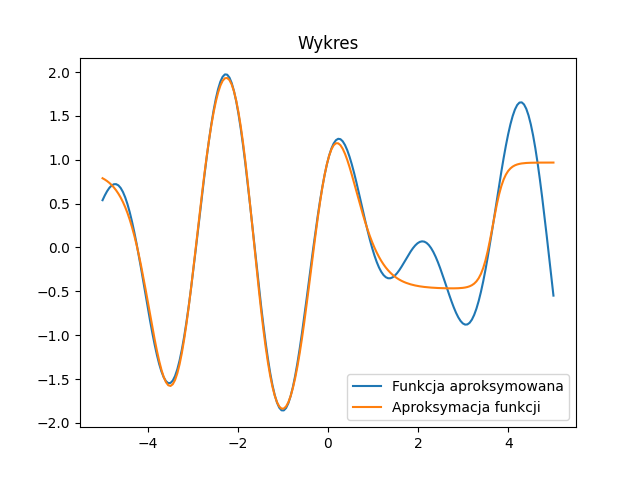
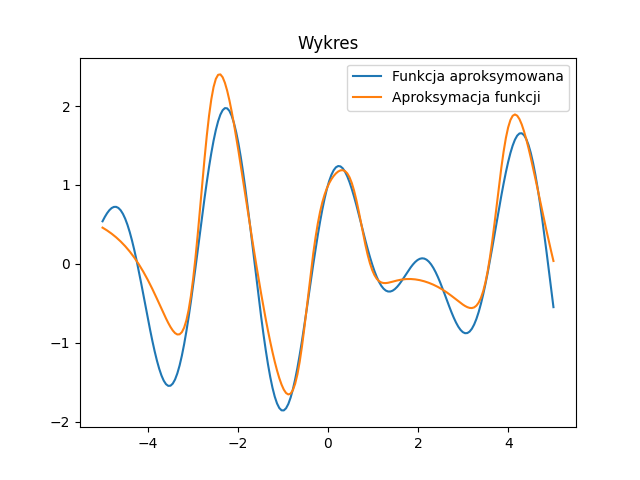
Change bounds for random weights

diff --git a/two_layer_perceptron.py b/two_layer_perceptron.py
@@ -7,8 +7,8 @@ class TwoLayerPerceptron:
         self._hidden = hidden
         self._learning_rate = learning_rate
 
-        self._hidden_layer_weights = np.random.uniform((-1/2), 1/2, size=(hidden, 2))
-        self._output_layer_weights = np.random.uniform((-1/2), 1/2, size=(1, hidden + 1))
+        self._hidden_layer_weights = np.random.uniform((-1), 1, size=(hidden, 2))
+        self._output_layer_weights = np.random.uniform((-1), 1, size=(1, hidden + 1))
 
     @property
     def hidden_size(self):
